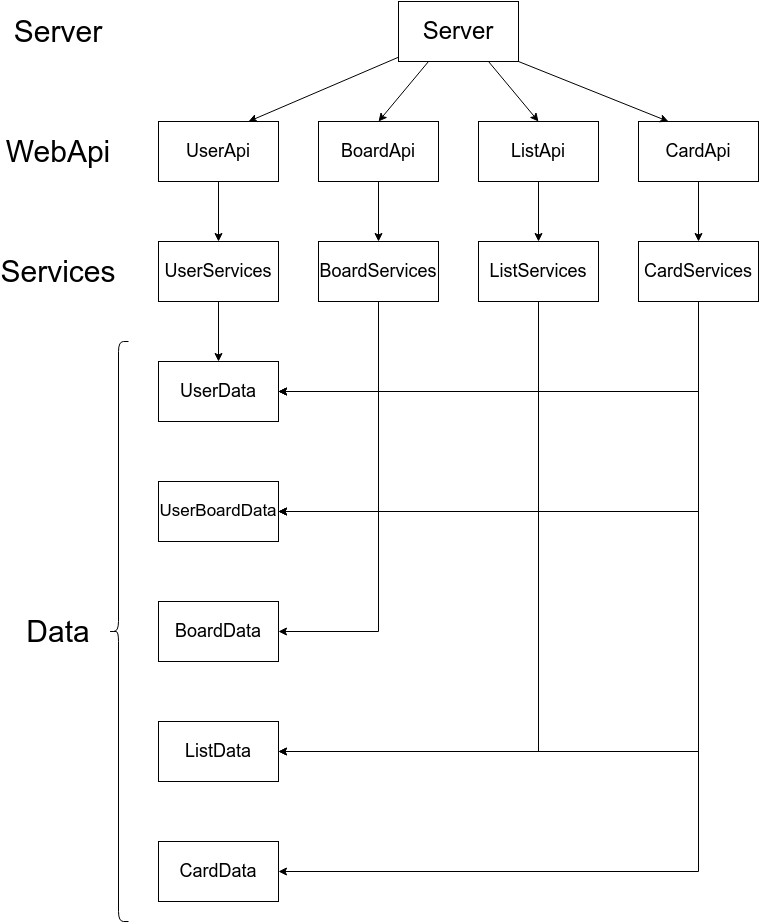
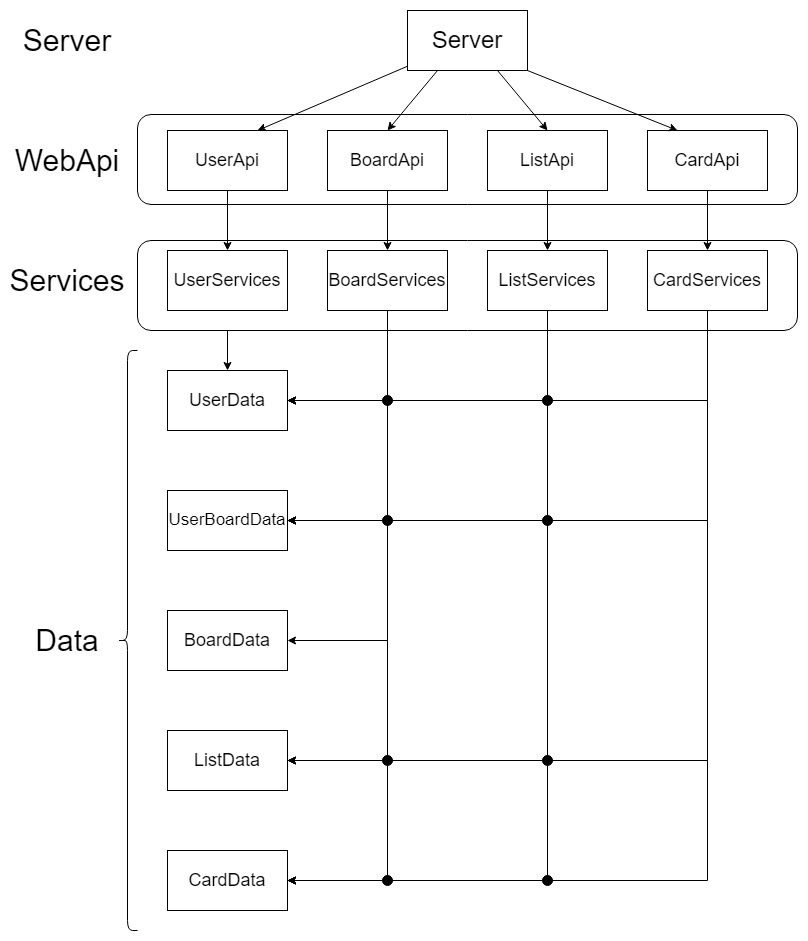
Final changes to REPORT.md

diff --git a/docs/REPORT.md b/docs/REPORT.md
@@ -72,11 +72,22 @@ The relevant classes/functions used internally in a request are:
 The request parameters are validated in the endpoint handler functions, using the HTTP4K library's validation functions.
 
 ### Connection Management
-Connections to the database are created, used, and disposed of by the PGSimpleDataSource class. <br>
 
-The connection management is integrated with transaction scopes. <br>
-Each service method executes its logic in only one connection to the database, meaning if something
-during the transaction fails, the SQL rollbacks the database.
+In this last phase of the project we implemented an executor to handle all transactions.
+
+The executor plays a crucial role in maintaining a single connection to perform all operations in the database, ensuring consistency and efficiency. By encapsulating the transaction management logic, it simplifies the process of handling database operations and ensures that they are executed within a transaction context.
+
+One of the main advantages of using the executor is that it abstracts away the complexity of managing transactions and connections, making the code cleaner and easier to maintain. It uses a unified interface for executing database operations, regardless of whether they are executed in a SQL transaction or a memory transaction.
+
+The DataExecutor class is utilized to execute database operations within a transaction context defined by the TransactionCtx interface. This allows us to use it with a given implementation (Memory or SQL) and utilizes a connection to perform transactions. The SQLTransaction class uses connection from a PGSimpleDataSource to perform SQL transactions. On the other hand, the MemTransaction class represents a memory transaction and does not require a connection.
+
+<img src="images/Transactions_Diagram.jpg" alt="TransactionCtx Diagram" style="width:450px;height:450px;">
+
+By using the executor, the Services modules can focus on implementing the business logic for data-related operations without worrying about managing transactions explicitly. It can delegate the responsibility of executing the database operations to the executor, which takes care of initializing, committing, and rolling back the transactions as needed.
+
+<img src="images/Executor_Diagram.jpg" alt="Executor Diagram" style="width:350px;height:600px;">
+
+It's worth noting that the executor is not used in the case of memory transactions (MemTransaction). Since memory transactions do not require a connection, the con property is not accessed, and the custom getter never throws the UnsupportedOperationException. This design decision is appropriate because memory transactions operate solely in memory and do not involve database interactions, it only serves the interface signature.
 
 ### Data Access
 The dataSQL class is responsible for data access. It provides helper functions for executing SQL statements and mapping the results to domain objects.
@@ -86,7 +97,7 @@ SQL statements that are used for querying the data related to a board, list, or 
 ### Module's division
 The module's division, was made so each module is independent, reused and have easier maintenance throughout whole the project. 
 
-<img src="images/ModulesDivision.jpg" alt="Modules Division" style="width:450px;height:450px;">
+<img src="images/ModulesDivision.jpg" alt="Modules Division" style="width:500px;height:600px;">
 
 The division was made in a way where each entity in your conceptual module has its own routes in server, Api, services logic and storage.
 This makes bugs in your app easier to find and fix, as well not mix the services logic behind each entity.
@@ -210,6 +221,8 @@ when displaying the board cards. <br>
 
 The App Move Card Feature is a feature that allows users to move cards between lists in board. <br>
 The Card can be moved to a different list by clicking on the card and dragging it to the desired list. <br>
+We used dragover, dragend and drop event listeners events to achieve this
+as well as the dataset attribute on each card element to keep track of its index.
 
 ##### Pagination Buttons Feature
 
@@ -229,6 +242,22 @@ The __sessionStorage__ is a web storage object that stores data in the browser's
 In our case, the token is stored in the sessionStorage and is used in the requests to the API when using the auxiliar function __fetchReq__. <br>
 
 The Logout operation is simply implemented by removing the token from the sessionStorage. <br>
+
+### Frontend Organization
+
+We have made efforts to improve the organization of our frontend code by following the package convention in Java. This approach aims to bring structure and order to the project, making it easier to navigate and maintain.
+
+By adhering to the package convention, we have grouped related files and components into logical units, represented by packages. This organization allows for better separation of concerns and helps us locate specific files more efficiently.
+
+We have also tried to implement a parallel structure to our backend division for better reading. In this structure, our index.js serves as the entry point for each request (same as WebAPI). Similar to our backend routes module, the router.js file facilitates routing of the requests. 
+
+The handlers in our system act as the Services module, responsible for retrieving information from the data layer, which connects to our backend. 
+
+Finally, the retrieved data is passed to a view module, which generates the requested page.
+
+By adopting this organized approach, we have optimized the flow of data and improved the overall structure of our system.
+
+<img src="./images/Frontend_Packages.jpg" alt="Frontend Division">
 
 ### Security of Passwords
 
